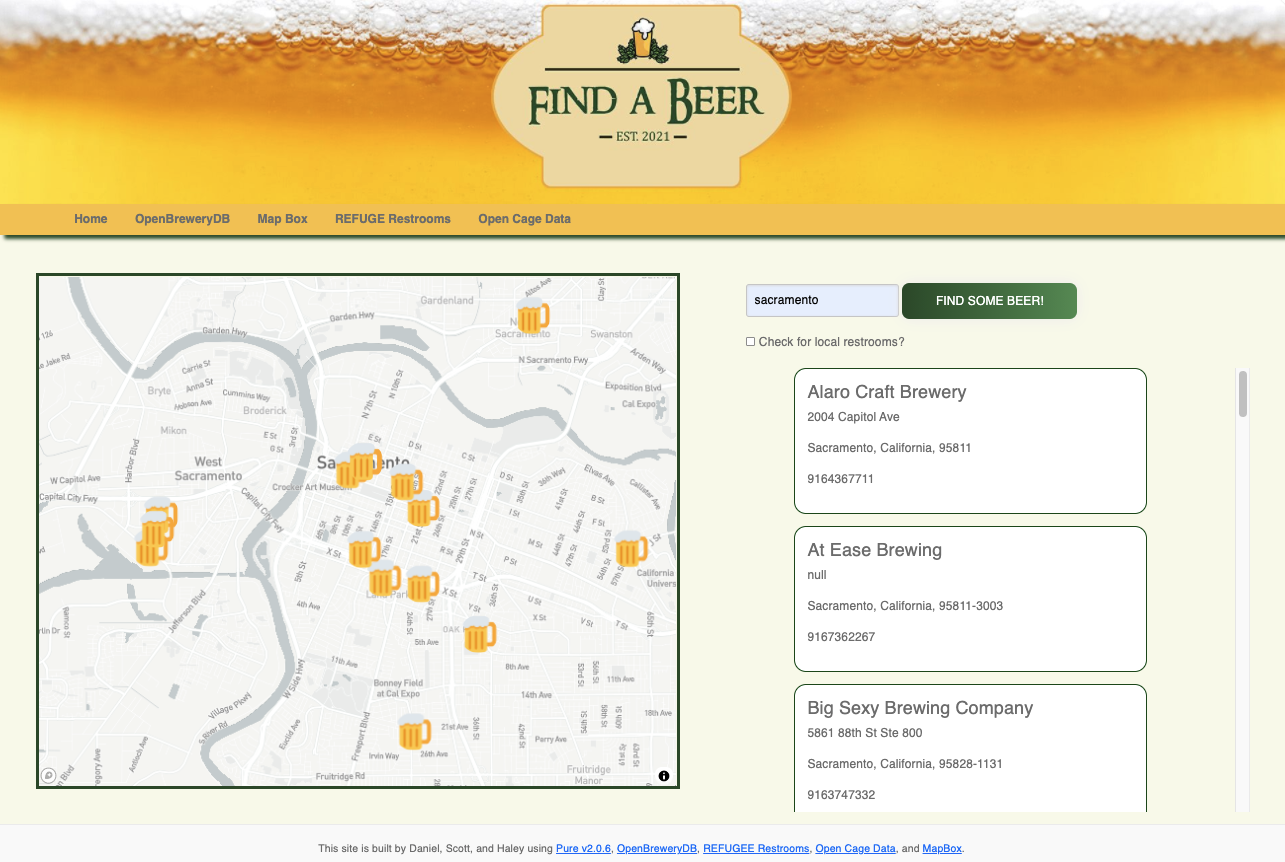
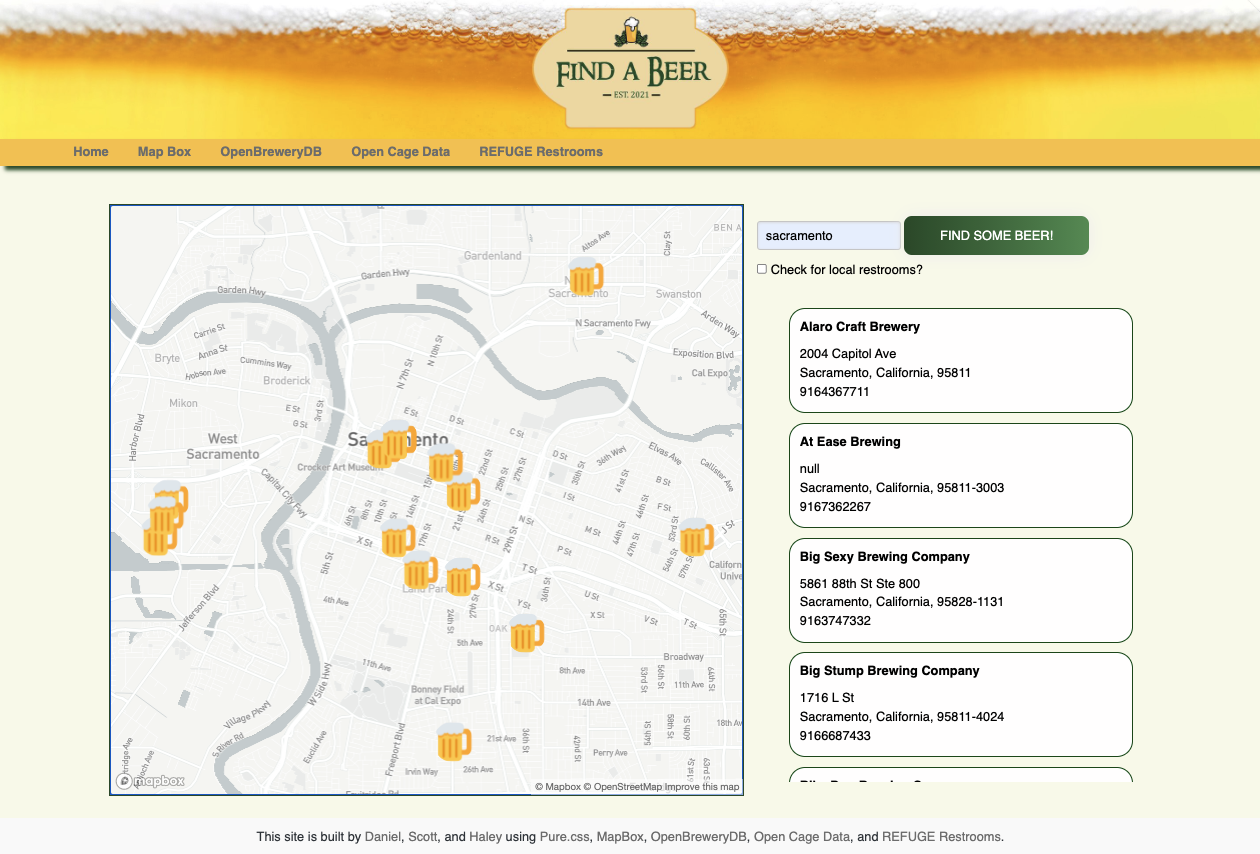
updating README

diff --git a/README.md b/README.md
@@ -13,8 +13,10 @@
 ### Usage
 ![alt text](assets/images/screenshot_usage.gif)
 
-- Entering the name of a US city, the user is presented with the local breweries
-    - The location of restrooms can also be toggled on and off
+- Entering the name of a US city, the user is presented with the local breweries on the map
+	- Information cards are also populated under the search area
+	- Clicking on a brewery's information card will zoom to that location
+- The location of restrooms can also be toggled on and off
 - Clicking on either a brewery location or a restroom location, the user is presented with relevant information
 
 ### Credits
@@ -23,7 +25,7 @@
 - [Pure.css](https://purecss.io/)
 - [Refuge Restrooms](https://www.refugerestrooms.org/api/docs/)
 
-### Collaborators
+### Contributors
 - [Daniel Mosso](https://github.com/benjimosso)
 - [Haley Parish](https://github.com/heparish)
 
